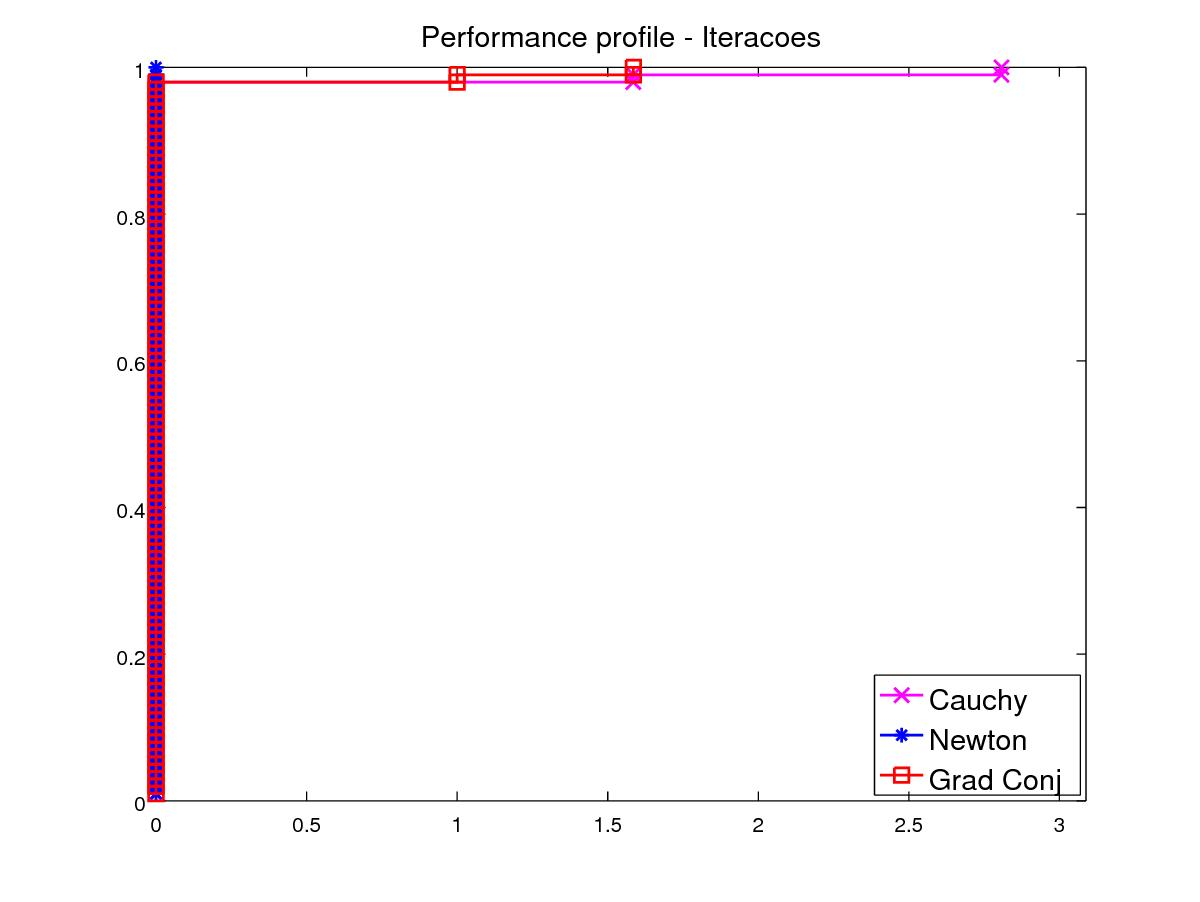
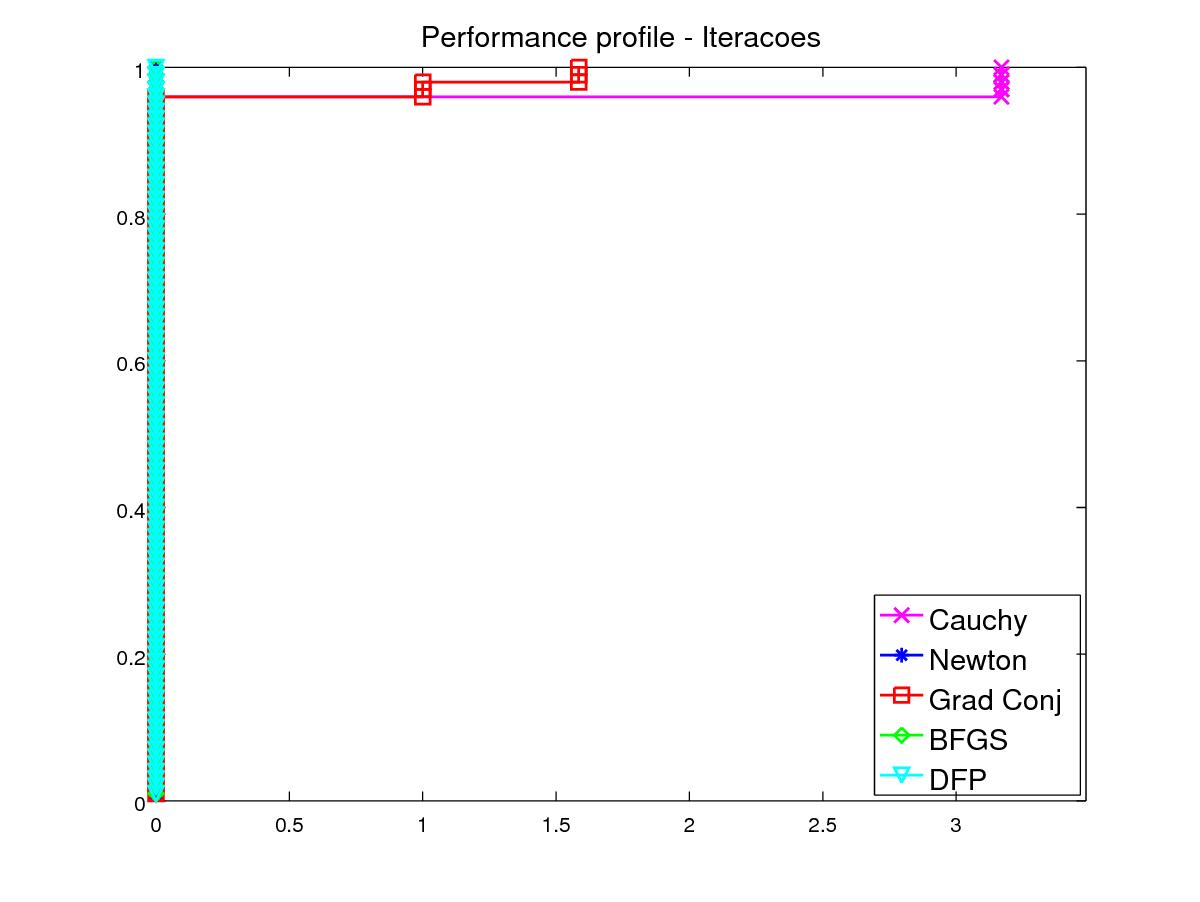
PP - BFGS e DFP

diff --git a/@FuncClass/solve.m b/@FuncClass/solve.m
@@ -7,6 +7,7 @@
 %   |gradiente
 %   |gradiente conjugado
 %   |quase-newton
+%   |quase-newton DFP
 %passo = metodo para passo
 %   |armijo
 %   |aurea
@@ -16,6 +17,11 @@ function k = solve(obj,kmax,prec,dirc,passo)
 
   if(nargin==4) %(default)
     passo = 'armijo';
+  end
+  
+  %BFGS ja eh o modo padrao
+  if (strcmp(dirc,'quase-newton BFGS'))
+    dirc = 'quase-newton';
   end
   
   k=0;
@@ -92,14 +98,14 @@ function k = solve(obj,kmax,prec,dirc,passo)
           disp(['Erro:',passo,' nao eh um metodo definido']);
         return
       end
-    case 'quase-newton'
+    case 'quase-newton' %BFGS
       switch passo
         case 'armijo'
           for k=1:kmax
              if(mean(obj.gradX())<prec)
                 break;
              end
-             obj.quaseNewton();
+             obj.quaseNewton(false);
              obj.armijo();                  
              obj.updateX();
            end
@@ -116,11 +122,36 @@ function k = solve(obj,kmax,prec,dirc,passo)
           disp(['Erro:',passo,' nao eh um metodo definido']);
         return
       end
+    case 'quase-newton DFP'
+      switch passo
+        case 'armijo'
+          for k=1:kmax
+             if(mean(obj.gradX())<prec)
+                break;
+             end
+             obj.quaseNewton(false);
+             obj.armijo();                  
+             obj.updateX();
+           end
+        case 'aurea'
+          for k=1:kmax
+             if(mean(obj.gradX())<prec)
+                break;
+             end
+             obj.quaseNewton(false);
+             obj.aurea(prec);                  
+             obj.updateX();
+           end
+        otherwise
+          disp(['Erro:',passo,' nao eh um metodo definido']);
+        return
+      end
     otherwise
       disp(['Erro:',dirc,' nao eh um metodo definido']);
       return 
   end
   
-  %obj.k += k;
+  #ajuste - sempre conta 1 a mais
+  k = k-1;
   
 end

diff --git a/go_PP.m b/go_PP.m
@@ -12,7 +12,7 @@ prec=0.001;
 vetorn=[ 5 10 15 20]; 
 nn=length(vetorn);
 % lambda min
-lambdamin=[1 2 3 4 5 ];  %%% 
+lambdamin=[1 2 3 4 5];  %%% 
 nlmin=length(lambdamin);
 % lambda max
 lambdamax=[10 11 12 13 14];  %%% 
@@ -25,9 +25,10 @@ nprob=nn*nlmin*nlmax; %% total de problemas
 % 1 = Cauchy
 % 2 = Newton
 % 3 = Gradiente Conjugado
-% 4 = Quase-Newton
+% 4 = Quase-Newton BFGS
+% 5 = Quase-Newton DFP
 
-variant=[1 2 3 4];
+variant=[1 2 3 4 5];
 nmet=length(variant);
 
 % -------------------------------------------------------------------------
@@ -65,7 +66,9 @@ for in=1:nn   % varia n
                        case 3
                           k = func.solve(kmax,prec,'gradiente conjugado','armijo');
                        case 4
-                          k = func.solve(kmax,prec,'quase-newton','armijo'); 
+                          k = func.solve(kmax,prec,'quase-newton','armijo');
+                       case 5
+                          k = func.solve(kmax,prec,'quase-newton DFP','armijo'); 
                 end
                
                 % Guarda para performance profile

diff --git a/PP_problemasquadraticos.m b/PP_problemasquadraticos.m
@@ -5,6 +5,7 @@
 % 2 = Newton
 % 3 = Gradiente Conjugado
 % 4 = Quase-Newton
+% 5 = Quase-Newton DFP
 % -------------------------------------------------------------------------
 
 % -------------------------------------------------------------------------
@@ -35,7 +36,7 @@ end
 figure(1)
 
 perf(it,2)
-leg = legend('Cauchy','Newton','Grad Conj','Quase-Newt',4);
+leg = legend('Cauchy','Newton','Grad Conj','BFGS','DFP',4);
 set (leg, 'fontsize', 14,'Location','SouthEast');
 title('Performance profile - Iteracoes','fontsize', 14);
 %print ('img/pp','-djpg');

diff --git a/@FuncClass/quaseNewton.m b/@FuncClass/quaseNewton.m
@@ -2,7 +2,7 @@
 %       Gustavo Cordeiro - UTFPR - março de 2017        %
 %-------------------------------------------------------%
 %
-%bfgs = false  -> utiliza o metodo DFG 
+%bfgs = false  -> utiliza o metodo DFP
 %bfgs = true   -> utiliza o metodo BFGS (default)
 
 function direcao = quaseNewton(obj,bfgs)
@@ -10,7 +10,7 @@ function direcao = quaseNewton(obj,bfgs)
   format long;
 
   if(nargin==1)%se nao mencionado utiliza metodo BFGS
-    bfgs = false;
+    bfgs = true;
   end
    
   %dados do objeto, para simplificar a visualização
